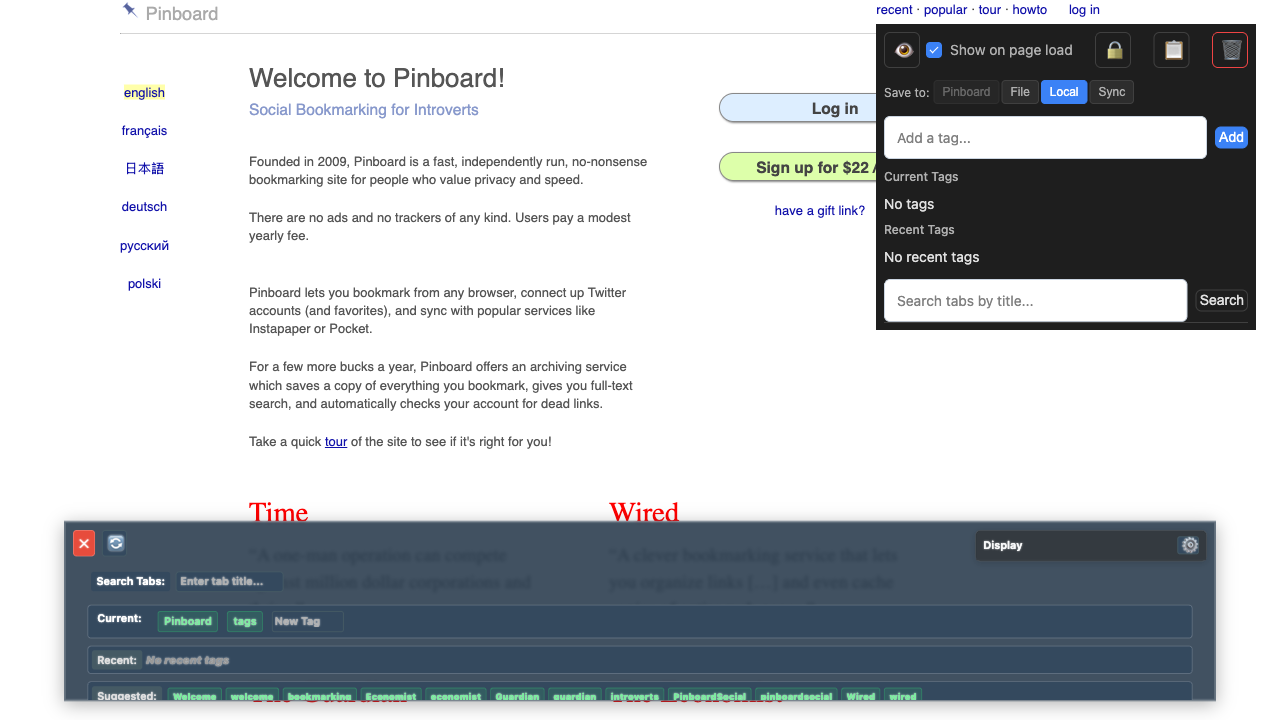
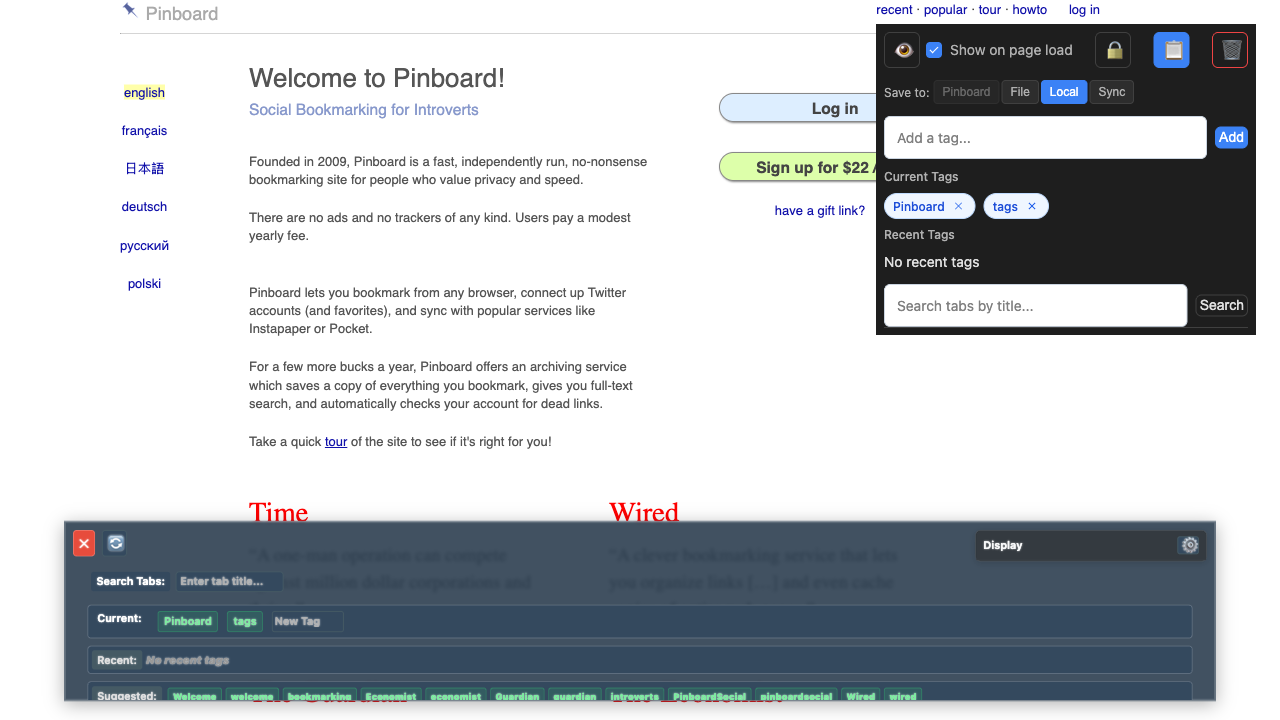
feat: screenshot seed from file

Changed region(s): [[0.6875, 0.2444, 0.9688, 0.4889], [0.875, 0.0306, 0.9375, 0.0917]]

diff --git a/scripts/screenshots-placeholder.js b/scripts/screenshots-placeholder.js
@@ -3,6 +3,12 @@
  * Generate README/docs screenshots with placeholder bookmark data.
  * [IMPL-SCREENSHOT_MODE] Requires built extension in dist/. Run: npm run build:dev && node scripts/screenshots-placeholder.js
  * Popup is cropped to #mainInterface only. Pinboard image composites overlay page + cropped popup.
+ *
+ * Seed from file (optional):
+ *   node scripts/screenshots-placeholder.js [--seed=path/to/seed.json]
+ *   SCREENSHOT_SEED_FILE=path/to/seed.json node scripts/screenshots-placeholder.js
+ * Seed JSON shape: { hoverboard_local_bookmarks: { [url]: bookmark }, hoverboard_storage_index: { [url]: "local" }, hoverboard_theme?: "dark"|"light", hoverboard_settings?: object }
+ * See scripts/screenshot-placeholder-data.js for the default seed and bookmark shape.
  */
 
 import path from 'path'
@@ -12,8 +18,8 @@ import { fileURLToPath } from 'url'
 import { chromium } from '@playwright/test'
 import sharp from 'sharp'
 import {
-  placeholderStorageSeed,
-  placeholderSyncSeed,
+  placeholderStorageSeed as defaultLocalSeed,
+  placeholderSyncSeed as defaultSyncSeed,
   screenshotPopupUrl,
   screenshotPopupTitle
 } from './screenshot-placeholder-data.js'
@@ -23,18 +29,62 @@ const projectRoot = path.join(__dirname, '..')
 const extPath = path.join(projectRoot, 'dist')
 const imagesDir = path.join(projectRoot, 'images')
 
+function getSeedFilePath () {
+  const env = process.env.SCREENSHOT_SEED_FILE
+  if (env) return path.isAbsolute(env) ? env : path.join(projectRoot, env)
+  const arg = process.argv.find(a => a.startsWith('--seed='))
+  if (arg) return path.isAbsolute(arg.slice(7)) ? arg.slice(7) : path.join(projectRoot, arg.slice(7))
+  return null
+}
+
+function loadSeedFromFile (filePath) {
+  const raw = fs.readFileSync(filePath, 'utf8')
+  const data = JSON.parse(raw)
+  if (!data || typeof data.hoverboard_local_bookmarks !== 'object' || Array.isArray(data.hoverboard_local_bookmarks)) {
+    throw new Error('Seed file must have hoverboard_local_bookmarks (object keyed by URL)')
+  }
+  const hoverboard_storage_index = data.hoverboard_storage_index && typeof data.hoverboard_storage_index === 'object' && !Array.isArray(data.hoverboard_storage_index)
+    ? data.hoverboard_storage_index
+    : Object.fromEntries(Object.keys(data.hoverboard_local_bookmarks).map(url => [url, 'local']))
+  const placeholderStorageSeed = {
+    hoverboard_local_bookmarks: data.hoverboard_local_bookmarks,
+    hoverboard_storage_index,
+    hoverboard_theme: data.hoverboard_theme || 'dark'
+  }
+  const placeholderSyncSeed = data.hoverboard_settings != null
+    ? { hoverboard_settings: data.hoverboard_settings }
+    : defaultSyncSeed
+  return { placeholderStorageSeed, placeholderSyncSeed }
+}
+
 const PINBOARD_CONTENT_URL = 'https://pinboard.in/'
 const SCREENSHOT_WAIT_MS = 3000
 const OVERLAY_SELECTOR = '#hoverboard-overlay'
 const POPUP_MAIN_SELECTOR = '#mainInterface'
+const POPUP_READY_ATTR = '[data-screenshot-ready="true"]'
 const OPTIONS_LOAD_SELECTOR = '#auth-token, #storage-mode-pinboard'
 const TABLE_SELECTOR = '.bookmarks-table tbody, .empty-state'
+const STORE_LOCAL_CHECKBOX = '#store-local'
 const POPUP_COMPOSITE_INSET = 24 // px from top-right when compositing popup onto Pinboard image
 
 async function main () {
   if (!fs.existsSync(extPath) || !fs.existsSync(path.join(extPath, 'manifest.json'))) {
     console.error('Extension not built. Run: npm run build:dev')
     process.exit(1)
+  }
+
+  const seedPath = getSeedFilePath()
+  let placeholderStorageSeed = defaultLocalSeed
+  let placeholderSyncSeed = defaultSyncSeed
+  if (seedPath) {
+    if (!fs.existsSync(seedPath)) {
+      console.error('Seed file not found:', seedPath)
+      process.exit(1)
+    }
+    const loaded = loadSeedFromFile(seedPath)
+    placeholderStorageSeed = loaded.placeholderStorageSeed
+    placeholderSyncSeed = loaded.placeholderSyncSeed
+    console.log('Using seed file:', seedPath)
   }
 
   const userDataDir = path.join(os.tmpdir(), `hoverboard-screenshots-${Date.now()}`)
@@ -59,16 +109,17 @@ async function main () {
 
   const baseUrl = `chrome-extension://${extensionId}`
 
-  // Seed storage from extension context (options page has chrome.storage)
+  // Seed storage from extension context (options page has chrome.storage).
+  // [IMPL-SCREENSHOT_MODE] Await storage set so popup/bookmarks-table see seeded data.
   const optionsPage = await context.newPage()
   await optionsPage.goto(`${baseUrl}/src/ui/options/options.html`, { waitUntil: 'domcontentloaded', timeout: 15000 })
-  await optionsPage.evaluate(({ localSeed, syncSeed }) => {
-    chrome.storage.local.set(localSeed)
+  await optionsPage.evaluate(async ({ localSeed, syncSeed }) => {
+    await chrome.storage.local.set(localSeed)
     if (syncSeed && typeof chrome.storage.sync !== 'undefined') {
-      chrome.storage.sync.set(syncSeed)
+      await chrome.storage.sync.set(syncSeed)
     }
   }, { localSeed: placeholderStorageSeed, syncSeed: placeholderSyncSeed })
-  await optionsPage.waitForTimeout(1000)
+  await optionsPage.waitForTimeout(500)
 
   // 1) Overlay on content page (Pinboard) – capture to temp for compositing
   const pinboardTempPath = path.join(os.tmpdir(), `hoverboard-pinboard-${Date.now()}.png`)
@@ -89,7 +140,8 @@ async function main () {
   const popupPage = await context.newPage()
   await popupPage.goto(popupUrl, { waitUntil: 'domcontentloaded', timeout: 15000 })
   await popupPage.locator(POPUP_MAIN_SELECTOR).waitFor({ state: 'visible', timeout: 10000 })
-  await popupPage.waitForTimeout(500)
+  await popupPage.locator(POPUP_READY_ATTR).waitFor({ state: 'attached', timeout: 15000 })
+  await popupPage.waitForTimeout(300)
   const popupBuffer = await popupPage.locator(POPUP_MAIN_SELECTOR).screenshot()
   await popupPage.close()
 
@@ -122,11 +174,12 @@ async function main () {
   console.log('Saved: images/Hoverboard_v1.0.7.0_Chrome_Options.png')
   await optionsPage.close()
 
-  // 4) Local bookmarks index
+  // 4) Local bookmarks index – check Local (L) so seeded bookmarks (storage: local) are visible
   const indexPage = await context.newPage()
   await indexPage.goto(`${baseUrl}/src/ui/bookmarks-table/bookmarks-table.html`, { waitUntil: 'domcontentloaded', timeout: 15000 })
   await indexPage.locator(TABLE_SELECTOR).first().waitFor({ state: 'attached', timeout: 10000 })
-  await indexPage.waitForTimeout(1000)
+  await indexPage.locator(STORE_LOCAL_CHECKBOX).check()
+  await indexPage.waitForTimeout(500)
   await indexPage.screenshot({
     path: path.join(imagesDir, 'local-bookmarks-index.png'),
     fullPage: true

diff --git a/dist/src/ui/popup/popup.js b/dist/src/ui/popup/popup.js
@@ -4426,6 +4426,7 @@ var PopupController = class {
       this.setLoading(true);
       const params = typeof window !== "undefined" && window.location && window.location.search ? new URLSearchParams(window.location.search) : null;
       const screenshotMode = params && params.get("screenshot") === "1";
+      this._screenshotMode = !!screenshotMode;
       const screenshotUrl = params && params.get("url");
       const screenshotTitle = params && params.get("title");
       if (screenshotMode && screenshotUrl) {
@@ -4530,6 +4531,9 @@ var PopupController = class {
       throw error;
     } finally {
       this.setLoading(false);
+      if (this._screenshotMode && this.uiManager?.elements?.mainInterface) {
+        this.uiManager.elements.mainInterface.setAttribute("data-screenshot-ready", "true");
+      }
     }
   }
   /**

diff --git a/dist/src/ui/popup/PopupController.js b/dist/src/ui/popup/PopupController.js
@@ -180,6 +180,7 @@ export class PopupController {
         ? new URLSearchParams(window.location.search)
         : null
       const screenshotMode = params && params.get('screenshot') === '1'
+      this._screenshotMode = !!screenshotMode
       const screenshotUrl = params && params.get('url')
       const screenshotTitle = params && params.get('title')
       if (screenshotMode && screenshotUrl) {
@@ -317,6 +318,10 @@ export class PopupController {
       throw error
     } finally {
       this.setLoading(false)
+      // [IMPL-SCREENSHOT_MODE] Signal to screenshot script that content is ready (enables wait-for-content).
+      if (this._screenshotMode && this.uiManager?.elements?.mainInterface) {
+        this.uiManager.elements.mainInterface.setAttribute('data-screenshot-ready', 'true')
+      }
     }
   }
 

diff --git a/src/ui/popup/PopupController.js b/src/ui/popup/PopupController.js
@@ -180,6 +180,7 @@ export class PopupController {
         ? new URLSearchParams(window.location.search)
         : null
       const screenshotMode = params && params.get('screenshot') === '1'
+      this._screenshotMode = !!screenshotMode
       const screenshotUrl = params && params.get('url')
       const screenshotTitle = params && params.get('title')
       if (screenshotMode && screenshotUrl) {
@@ -317,6 +318,10 @@ export class PopupController {
       throw error
     } finally {
       this.setLoading(false)
+      // [IMPL-SCREENSHOT_MODE] Signal to screenshot script that content is ready (enables wait-for-content).
+      if (this._screenshotMode && this.uiManager?.elements?.mainInterface) {
+        this.uiManager.elements.mainInterface.setAttribute('data-screenshot-ready', 'true')
+      }
     }
   }
 

diff --git a/dist/src/core/message-handler.js b/dist/src/core/message-handler.js
@@ -298,8 +298,10 @@ export class MessageHandler {
   }
 
   async handleGetCurrentBookmark (data, url, tabId) {
-    // Use URL from data if sender doesn't have tab context (e.g., popup messages)
-    const targetUrl = url || data?.url
+    // Use URL from data when present and is a content URL (e.g. screenshot mode popup opened as tab sends data.url).
+    // Otherwise use sender tab url so content scripts and real popup get bookmark for the current page.
+    const dataUrl = data?.url && typeof data.url === 'string' && (data.url.startsWith('http://') || data.url.startsWith('https://')) ? data.url : null
+    const targetUrl = dataUrl || url || data?.url
     if (!targetUrl) {
       throw new Error('No URL provided')
     }

diff --git a/src/core/message-handler.js b/src/core/message-handler.js
@@ -298,8 +298,10 @@ export class MessageHandler {
   }
 
   async handleGetCurrentBookmark (data, url, tabId) {
-    // Use URL from data if sender doesn't have tab context (e.g., popup messages)
-    const targetUrl = url || data?.url
+    // Use URL from data when present and is a content URL (e.g. screenshot mode popup opened as tab sends data.url).
+    // Otherwise use sender tab url so content scripts and real popup get bookmark for the current page.
+    const dataUrl = data?.url && typeof data.url === 'string' && (data.url.startsWith('http://') || data.url.startsWith('https://')) ? data.url : null
+    const targetUrl = dataUrl || url || data?.url
     if (!targetUrl) {
       throw new Error('No URL provided')
     }

diff --git a/dist/src/core/service-worker.js b/dist/src/core/service-worker.js
@@ -5802,7 +5802,8 @@ var MessageHandler = class {
     }
   }
   async handleGetCurrentBookmark(data, url, tabId) {
-    const targetUrl = url || data?.url;
+    const dataUrl = data?.url && typeof data.url === "string" && (data.url.startsWith("http://") || data.url.startsWith("https://")) ? data.url : null;
+    const targetUrl = dataUrl || url || data?.url;
     if (!targetUrl) {
       throw new Error("No URL provided");
     }

diff --git a/CHANGELOG.md b/CHANGELOG.md
@@ -5,6 +5,24 @@ All notable changes to the Hoverboard Browser Extension will be documented in th
 The format is based on [Keep a Changelog](https://keepachangelog.com/en/1.0.0/),
 and this project adheres to [Semantic Versioning](https://semver.org/spec/v2.0.0.html).
 
+## [Unreleased]
+
+### Fixed
+
+- **Screenshot placeholder flow** (`IMPL-SCREENSHOT_MODE`) – Placeholder screenshots now show bookmarks reliably:
+  - **Storage seed awaited:** The script awaits `chrome.storage.local.set` and `chrome.storage.sync.set` in the options page so the popup and bookmarks index load after data is written.
+  - **Popup-as-tab URL:** When the popup is opened as a full tab (screenshot flow), the message handler now prefers `data.url` when it is an `http`/`https` URL so `getCurrentBookmark` returns the bookmark for the screenshot URL (e.g. Pinboard) instead of the extension tab URL.
+  - **Wait for content:** The popup sets `data-screenshot-ready="true"` on `#mainInterface` when loading finishes in screenshot mode; the script waits for this attribute before capturing so the popup screenshot shows tags and bookmark data.
+  - **Local store checked for index:** The Local Bookmarks Index shows no rows until at least one store (Local / File / Sync) is checked. The script now checks the **Local (L)** checkbox before capturing the index screenshot so seeded local bookmarks are visible.
+
+### Added
+
+- **Screenshot seed from file** (`IMPL-SCREENSHOT_MODE`) – Formal way to load placeholder data from a JSON file:
+  - **CLI:** `node scripts/screenshots-placeholder.js [--seed=path/to/seed.json]`
+  - **Env:** `SCREENSHOT_SEED_FILE=path node scripts/screenshots-placeholder.js`
+  - **Seed shape:** `hoverboard_local_bookmarks` (object keyed by URL), `hoverboard_storage_index` (optional), `hoverboard_theme` (optional), `hoverboard_settings` (optional for sync). See `scripts/screenshot-placeholder-data.js` for the default seed and bookmark shape.
+  - **Example file:** `scripts/screenshot-seed.example.json` – copy and edit for custom screenshot data.
+
 ## [1.5.0] - 2026-02-18
 
 ### Added

diff --git a/README.md b/README.md
@@ -131,7 +131,7 @@ Intelligent tag suggestions extracted from multiple page content sources:
 
 ## 📸 Screenshots
 
-Screenshots are generated with **placeholder bookmark data** (no live account) and show the extension in **dark theme**. Regenerate with `npm run screenshots:placeholder` (see [Development](#development)).
+Screenshots are generated with **placeholder bookmark data** (no live account) and show the extension in **dark theme**. Regenerate with `npm run screenshots:placeholder` (see [Development](#development)). The script awaits storage seed, waits for the popup to signal content ready, and checks the **Local (L)** store on the bookmarks index so seeded bookmarks are visible. You can use a custom seed file with `--seed=path/to/seed.json` or `SCREENSHOT_SEED_FILE=path node scripts/screenshots-placeholder.js`; see `scripts/screenshot-seed.example.json` for the expected JSON shape.
 
 ### Popup (dark theme)
 
@@ -298,7 +298,10 @@ npm run create-release
 
 # Screenshots (requires built extension and Playwright)
 npm run screenshots              # Capture popup, options, index (current tab state)
-npm run screenshots:placeholder # Same, using placeholder data and dark-theme popup; writes to images/
+npm run screenshots:placeholder  # Same, using placeholder data and dark-theme popup; writes to images/
+# Optional: use a custom seed file (JSON: hoverboard_local_bookmarks, hoverboard_storage_index, hoverboard_theme?, hoverboard_settings?)
+node scripts/screenshots-placeholder.js --seed=scripts/screenshot-seed.example.json
+# Or: SCREENSHOT_SEED_FILE=./my-seed.json node scripts/screenshots-placeholder.js
 ```
 
 ## Documentation
